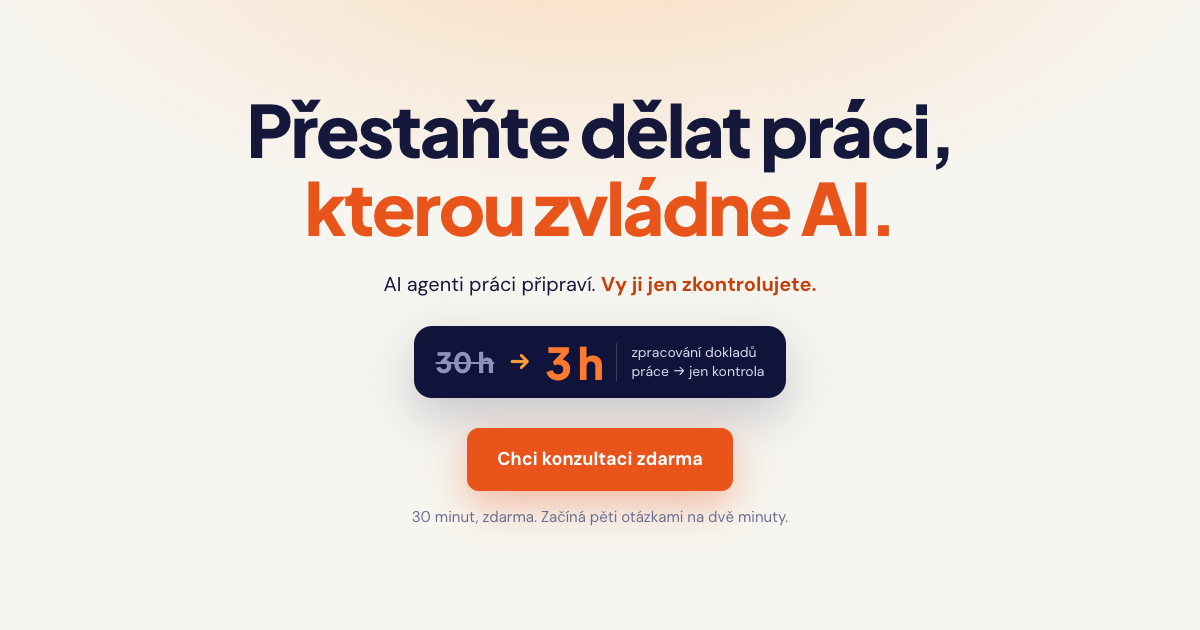
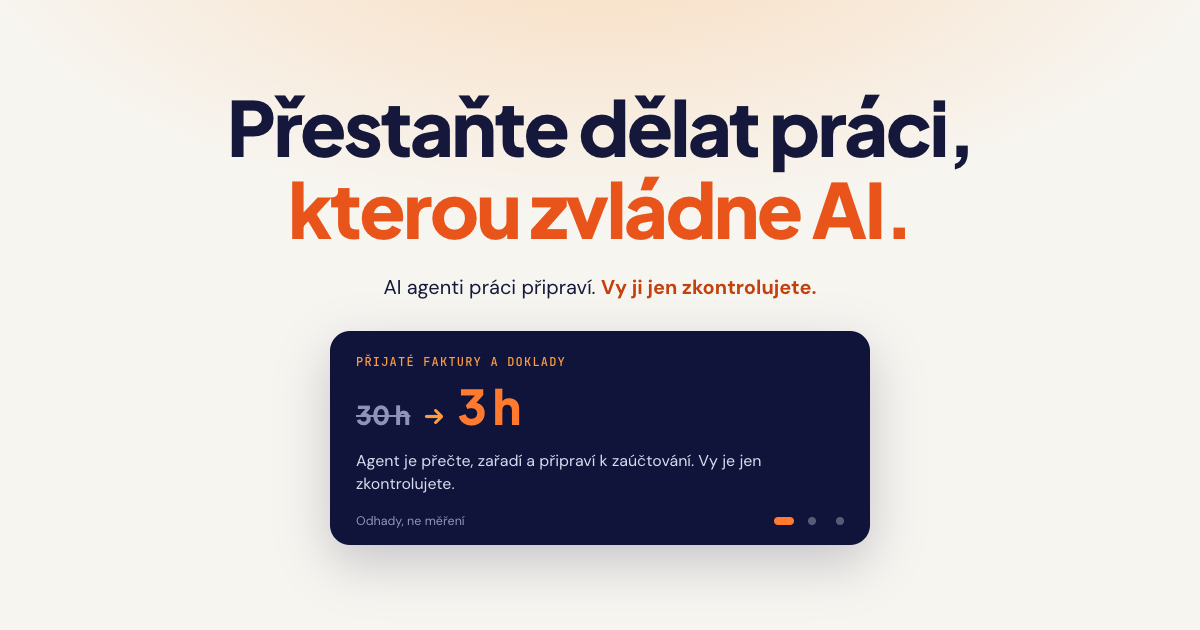
start: tři konkrétní příklady úspory jako posuvník v úvodním boxu
- úvodní box se sám posouvá mezi třemi příklady (doklady, dotazy zákazníků, poptávky), po doteku zůstane stát
- u příkladů štítek Odhady, ne měření
- nový náhled pro sdílení

Changed region(s): [[0.2467, 0.5127, 0.74, 0.9048], [0.185, 0.1508, 0.8017, 0.3921], [0.3083, 0.4222, 0.6783, 0.4825]]

diff --git a/start/index.html b/start/index.html
@@ -212,6 +212,24 @@ footer{background:#0B0F2E;color:#8E93BA;padding:28px 0;font-size:14px}
 footer .wrap{display:flex;flex-wrap:wrap;gap:10px 24px;justify-content:space-between;align-items:center}
 footer a{color:#C9CCE6}
 .micro{margin-top:14px;font-size:15px;color:var(--ink3)}
+.saves{max-width:540px;margin:28px auto 0;background:var(--dark);color:#fff;border-radius:20px;box-shadow:0 18px 50px rgba(21,24,58,.22);overflow:hidden;text-align:left}
+.saves .track{display:flex;overflow-x:auto;scroll-snap-type:x mandatory;scrollbar-width:none;overscroll-behavior-x:contain}
+.saves .track::-webkit-scrollbar{display:none}
+.saves .slide{flex:0 0 100%;scroll-snap-align:start;padding:22px 26px 6px}
+.saves .k{font-family:var(--mono);font-size:12px;letter-spacing:.1em;text-transform:uppercase;color:#FF9A3D}
+.saves .nums{display:flex;align-items:baseline;gap:12px;margin-top:10px;white-space:nowrap}
+.saves .was{font-family:var(--disp);font-weight:800;font-size:26px;color:#8E93BA;text-decoration:line-through;text-decoration-thickness:2px}
+.saves .arr{color:#FF9A3D;font-size:24px;font-weight:800}
+.saves .now{font-family:var(--disp);font-weight:800;font-size:48px;letter-spacing:-.03em;line-height:1;color:#FF7A2F}
+.saves .per{font-family:var(--mono);font-size:11px;letter-spacing:.1em;text-transform:uppercase;color:#A9ADCB}
+.saves .slide>p:last-child{margin-top:12px;font-size:16px;line-height:1.45;color:#D9DBEF}
+.saves .foot{display:flex;align-items:center;justify-content:space-between;gap:12px;padding:6px 16px 10px 26px;font-size:12.5px;color:#8E93BA}
+.saves .dots{display:flex}
+.saves .dots button{appearance:none;border:0;background:none;padding:0;width:28px;height:28px;display:grid;place-items:center;cursor:pointer}
+.saves .dots button::before{content:"";width:8px;height:8px;border-radius:8px;background:rgba(255,255,255,.3);transition:width .25s,background .25s}
+.saves .dots button[aria-current="true"]::before{width:20px;background:#FF7A2F}
+.saves .dots button:focus-visible{outline:2px solid #FF9A3D;outline-offset:-4px}
+@media(max-width:600px){.saves{margin-top:22px}.saves .slide{padding:18px 20px 4px}.saves .was{font-size:22px}.saves .now{font-size:42px}.saves .slide>p:last-child{font-size:15.5px}.saves .foot{padding-left:20px}}
 .ob ul{list-style:none;padding:0;margin:12px 0 0;display:grid;gap:8px;font-size:16px;color:var(--ink2)}
 .ob li{display:flex;gap:10px}.ob li::before{content:"→";flex:none;color:var(--or);font-weight:800}
 @media(max-width:759px){.ob{gap:12px;margin-top:22px}.ob .card{padding:18px 20px}.ob ul{gap:6px;font-size:15.5px}}
@@ -243,7 +261,20 @@ footer a{color:#C9CCE6}
 <section class="hero"><div class="wrap">
 <h1>Přestaňte dělat práci,<br><span>kterou zvládne AI.</span></h1>
 <p class="lead">AI agenti práci připraví. <b>Vy ji jen zkontrolujete.</b></p>
-<a class="herostat" href="#obory" aria-label="Zpracování dokladů: z 30 hodin práce na 3 hodiny kontroly"><span class="was">30 h</span><span class="arr">→</span><span class="now">3 h</span><span class="what">zpracování dokladů<br>práce → jen kontrola</span></a>
+<div class="saves" id="saves" role="region" aria-roledescription="karusel" aria-label="Tři příklady úspory času">
+<div class="track">
+<article class="slide" aria-label="Příklad 1 ze 3"><p class="k">Přijaté faktury a doklady</p>
+<div class="nums"><span class="was">30 h</span><span class="arr">→</span><span class="now">3 h</span></div>
+<p>Agent je přečte, zařadí a připraví k zaúčtování. Vy je jen zkontrolujete.</p></article>
+<article class="slide" aria-label="Příklad 2 ze 3"><p class="k">Dotazy zákazníků e‑shopu</p>
+<div class="nums"><span class="was">15 h</span><span class="arr">→</span><span class="now">6 h</span><span class="per">týdně</span></div>
+<p>U každého dotazu čeká odpověď s údaji z objednávky. Stačí ji schválit.</p></article>
+<article class="slide" aria-label="Příklad 3 ze 3"><p class="k">Odpovědi na poptávky</p>
+<div class="nums"><span class="was">8 h</span><span class="arr">→</span><span class="now">3 h</span><span class="per">týdně</span></div>
+<p>Návrh odpovědi čeká připravený. Odpovíte týž den, ne za dva tři dny.</p></article>
+</div>
+<div class="foot"><span>Odhady, ne měření</span><div class="dots"><button type="button" aria-label="Příklad 1" aria-current="true"></button><button type="button" aria-label="Příklad 2" aria-current="false"></button><button type="button" aria-label="Příklad 3" aria-current="false"></button></div></div>
+</div>
 <div class="cta"><a class="btn big" href="#analyza">Chci konzultaci zdarma</a></div>
 <p class="micro">30 minut, zdarma. Začíná pěti otázkami na dvě minuty.</p>
 </div></section>
@@ -300,6 +331,22 @@ footer a{color:#C9CCE6}
 
 <footer><div class="wrap"><span>Fundament 22 · Základy firmy pro 22. století</span><span><a href="../">Podrobná verze webu</a> · <a href="../demo/">Ukázka</a> · <a href="mailto:petr@locoglobal.ai">petr@locoglobal.ai</a></span></div></footer>
 <script>
+/* Posuvník tří příkladů úspory: sám se posouvá, po doteku nebo kliknutí zůstane stát. */
+(function(){
+  const box=document.getElementById("saves"); if(!box) return;
+  const tr=box.querySelector(".track"), dots=[...box.querySelectorAll(".dots button")];
+  let i=0, timer=null, hover=false;
+  const go=(n,smooth)=>{ i=(n+dots.length)%dots.length; tr.scrollTo({left:i*tr.clientWidth,behavior:smooth?"smooth":"auto"}); };
+  const sync=()=>{ i=Math.round(tr.scrollLeft/tr.clientWidth); dots.forEach((d,k)=>d.setAttribute("aria-current",String(k===i))); };
+  const stop=()=>{ clearInterval(timer); timer=null; box.dataset.stopped="1"; };
+  tr.addEventListener("scroll",()=>requestAnimationFrame(sync),{passive:true});
+  dots.forEach((d,k)=>d.addEventListener("click",()=>{ stop(); go(k,true); }));
+  ["pointerdown","touchstart","keydown","focusin"].forEach(e=>box.addEventListener(e,stop,{passive:true}));
+  box.addEventListener("mouseenter",()=>hover=true); box.addEventListener("mouseleave",()=>hover=false);
+  addEventListener("resize",()=>go(i,false));
+  if(!matchMedia("(prefers-reduced-motion: reduce)").matches)
+    timer=setInterval(()=>{ if(!hover && !document.hidden) go(i+1,true); },4500);
+})();
 (function(){
 /* ============================================================
    NASTAVENÍ — značka, kontakt a cíl formuláře se mění jen tady
